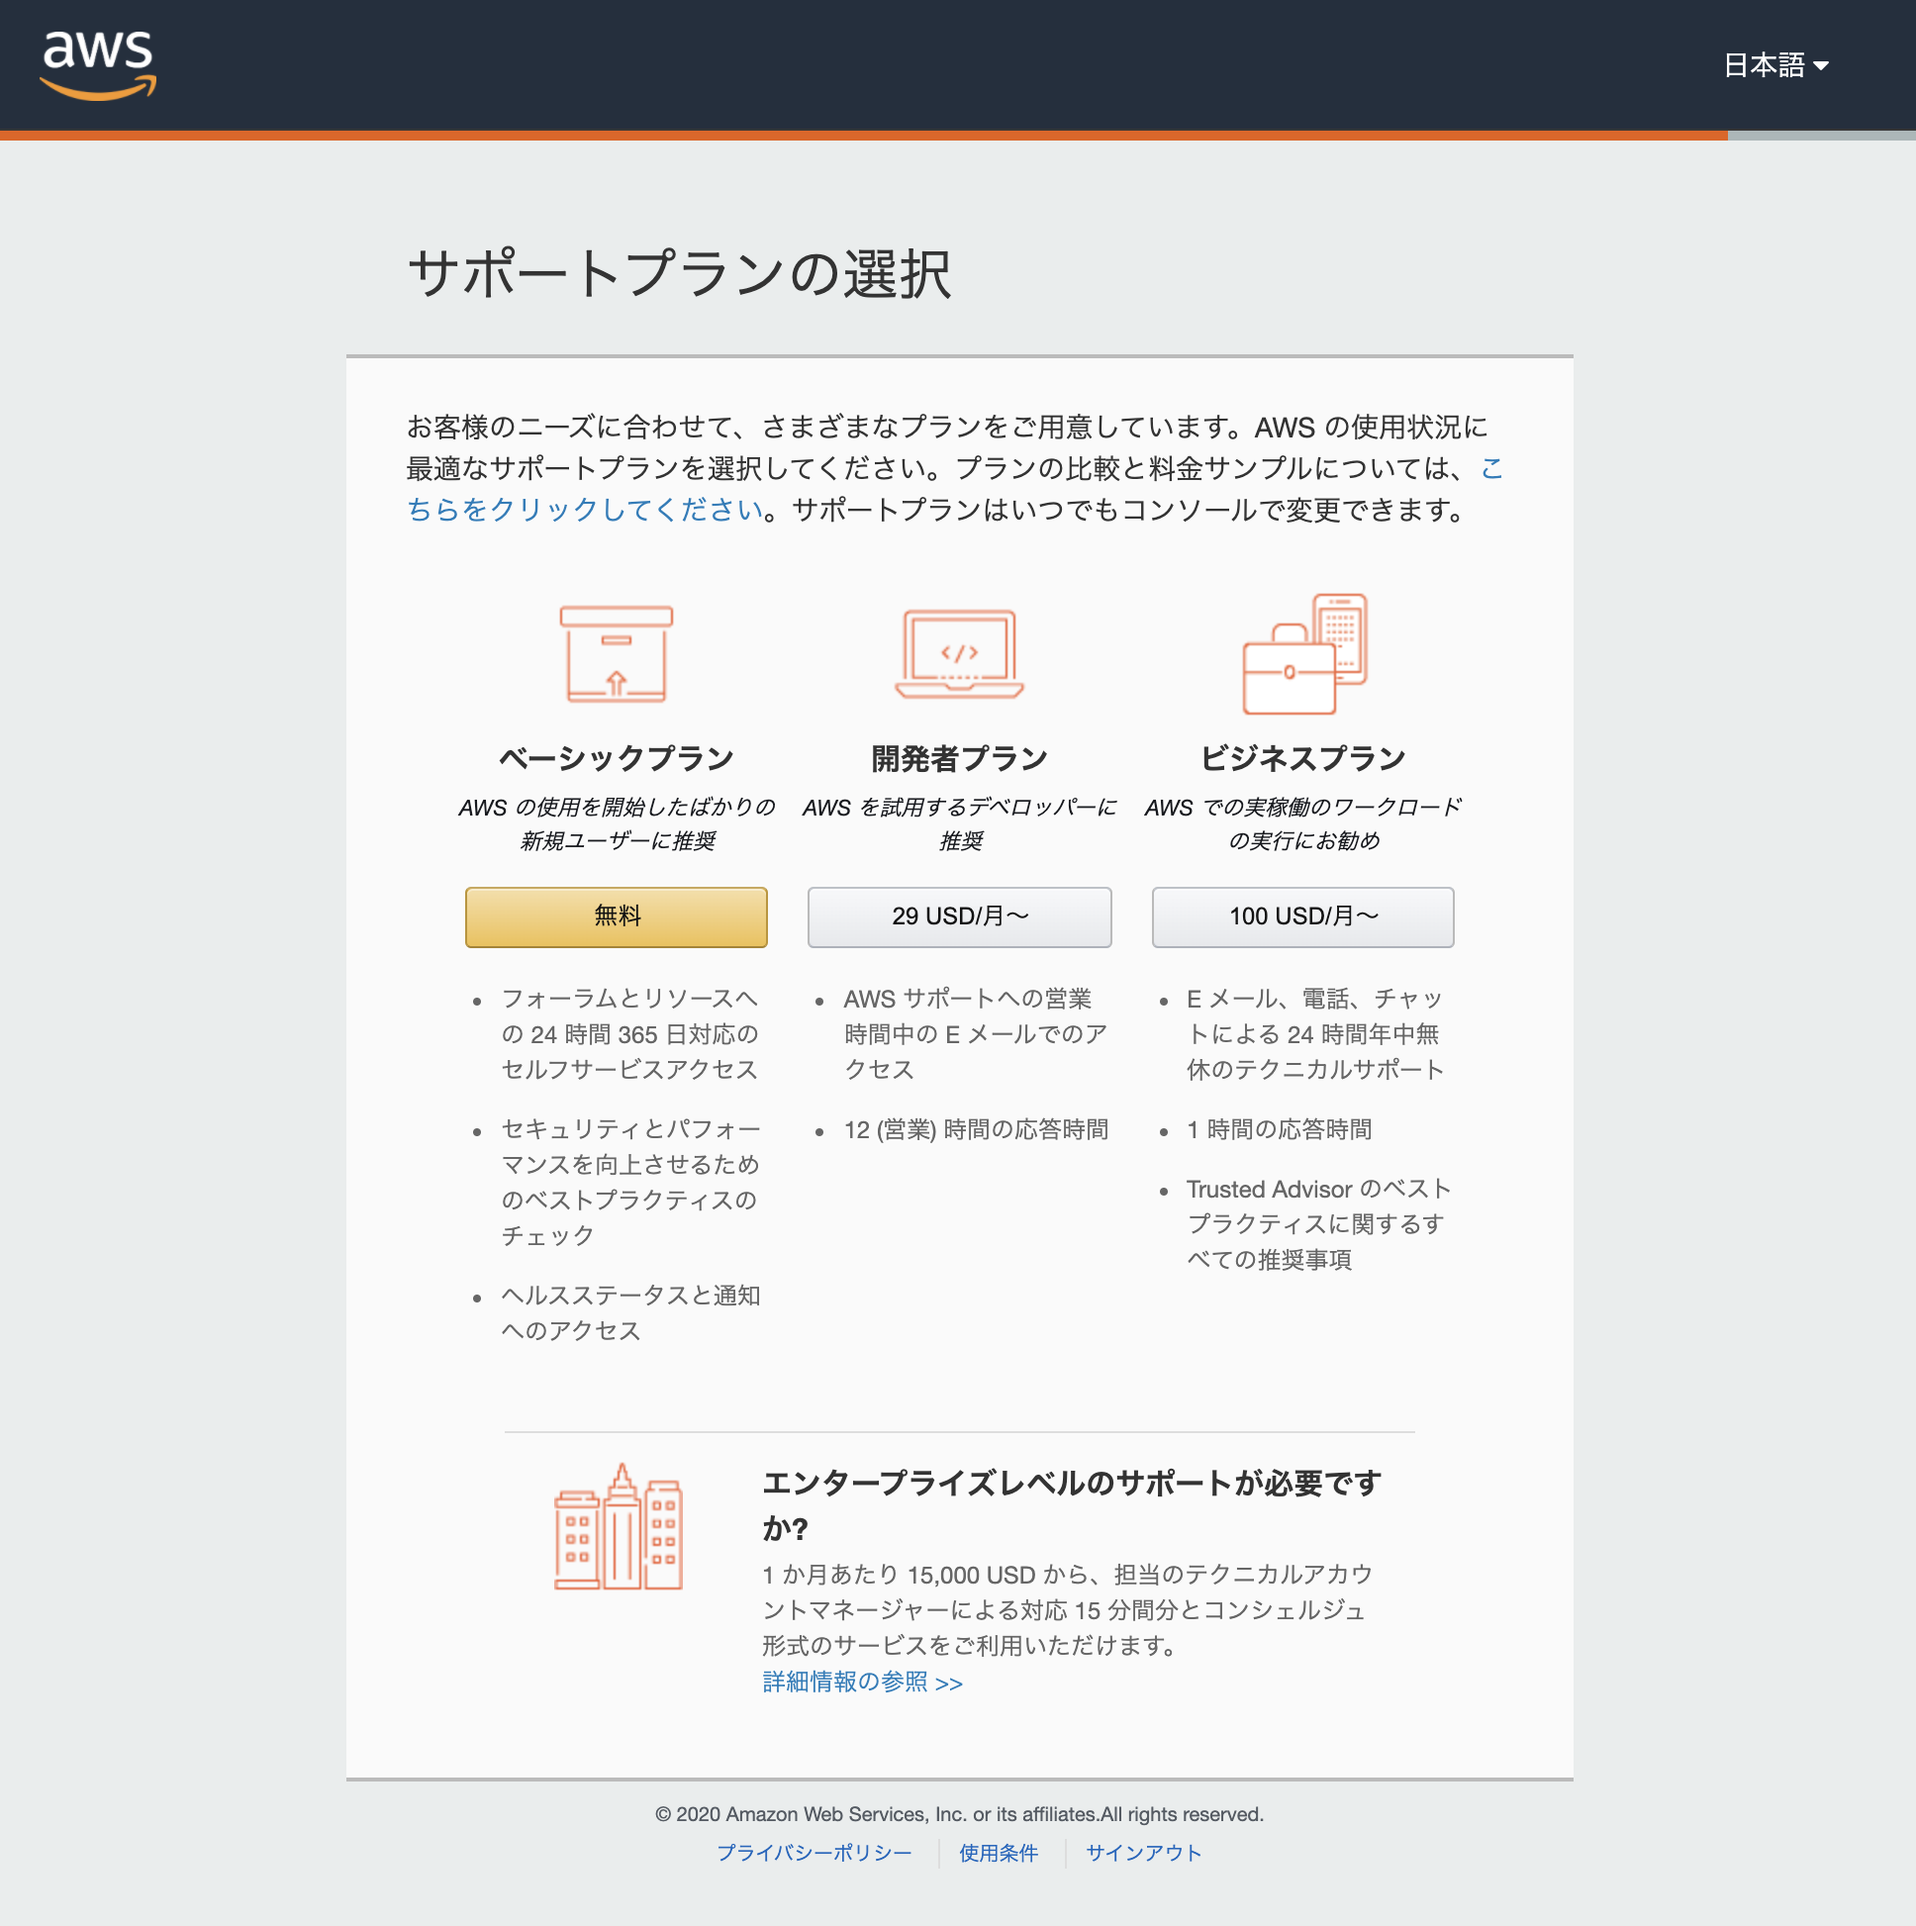
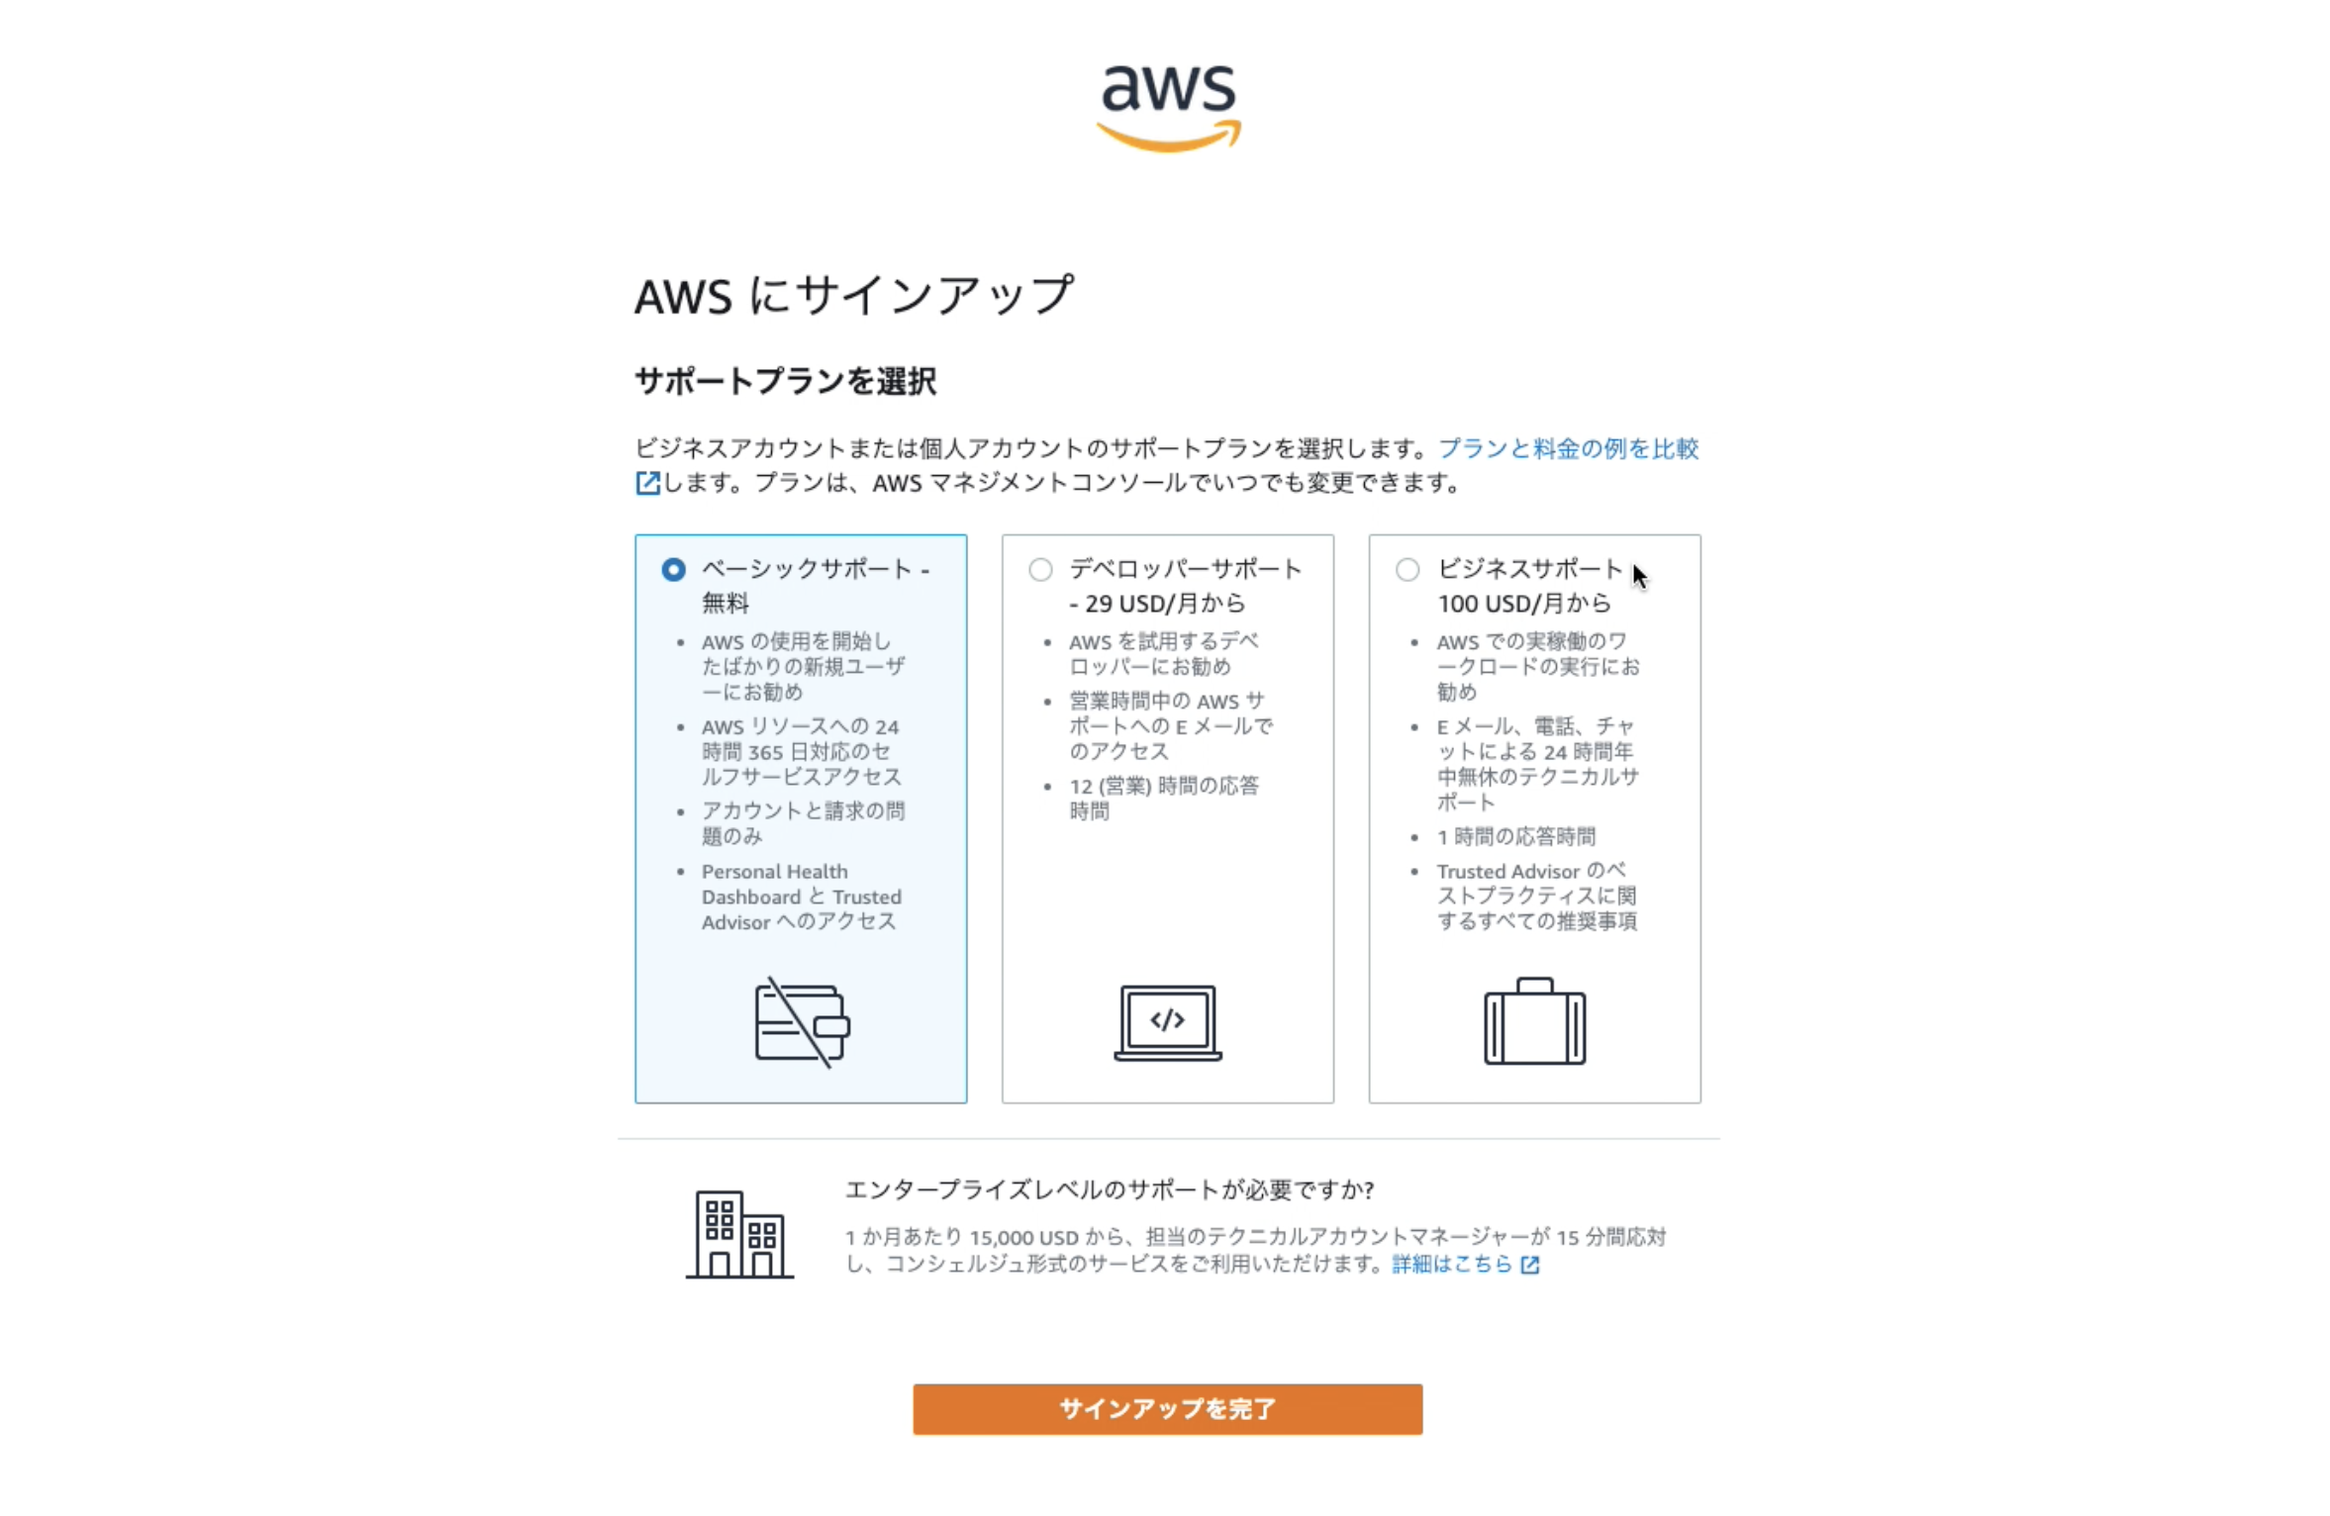
step1,2をアップデート

diff --git a/docs/Step_1.md b/docs/Step_1.md
@@ -46,24 +46,29 @@
   * パスワードの確認
   * AWS アカウント名
 * 連絡先情報
-  * アカウントの種類: パーソナル
+  * AWSはどのように使用されますか？: 個人 - ご自身のプロジェクト向け
   * 電話番号: 個人の電話番号を入力
-  * 国/地域: 任意
-  * アドレス: 任意
-  * 市区町村: 任意
-  * 都道府県または地域: 任意
-  * 郵便番号: 任意
-  * AWSカスタマーアグリーメントの諸条件を...: チェックする
-  * アカウントを作成して続行ボタンをクリック
+  * 住所は各自の情報を入力してください
+    * 例
+      * 国または地域コード: 日本 
+      * 住所: 1-21-1
+        * Shibuya Apartment 101
+      * 市区町村: Shibuya-ku Dogenzaka
+      * 州/都道府県または地域: Tokyo
+      * 郵便番号: 150-0043
+  * AWSカスタマーアグリーメントの...: チェックする
+  * 続行ボタンをクリック
 * 支払い情報
   * クレジットカード情報の入力
+  * 確認して次へボタンをクリック
 * 本人確認
   * SMS か 音声通話を利用して本人確認を実施
 * サポートプランの選択
-  * ベーシックプラン（無料）を選択
+  * ベーシックサポート-無料 を選択
   * <img src="./assets/step1_register_01.png" width="800px">
-* アマゾンウェブサービスへようこそ
-  * コンソールにサインインボタンをクリック
+  * サインアップを完了ボタンを押す
+* おめでとうございます
+  * AWSマネジメントコンソールへ進むボタンを押す
 
 # サインイン
 * https://console.aws.amazon.com/console/home
@@ -76,8 +81,8 @@
 
 # アカウントエイリアスを設定
 * https://console.aws.amazon.com/iam/home?#/home
-* カスタマイズというリンクをクリック
+* 右端の作成リンクをクリック
   * <img src="./assets/step1_account_alias_00.png" width="800px">
-* アカウントの別名を作成というポップアップが出る
-  * アカウントエイリアス: 世界中の AWS アカウントがユニークに特定される必要があることに留意しつつ、任意のエイリアス名を記入
-* はい、作成するボタンをクリック
+* エイリアスを作成というポップアップが出る
+  * アカウント（優先）エイリアス: 世界中の AWS アカウントがユニークに特定される必要があることに留意しつつ、任意のエイリアス名を記入
+* 変更を保存ボタンをクリック

diff --git a/docs/Step_2.md b/docs/Step_2.md
@@ -32,7 +32,7 @@
 # ルートアカウントの MFA を有効化
 * ルートアカウントにログインする際に、2要素認証が必要になるよう設定する
 * https://console.aws.amazon.com/iam/home?region=ap-northeast-1#/home
-* `MFAの管理` ボタンをクリック
+* `MFAを追加` ボタンをクリック
   * <img src="./assets/step2_root_mfa_01.png" width="800px">
 * `MFAの有効化` ボタンをクリック
   * <img src="./assets/step2_root_mfa_02.png" width="800px">
@@ -47,8 +47,12 @@
   * <img src="./assets/step2_root_mfa_05.png" width="800px">
 * `MFA の割り当て`ボタンを押して、設定に成功すれば完了
   * <img src="./assets/step2_root_mfa_06.png" width="800px">
-* 一度 AWS アカウントからログアウトして、再度ログインしてみると、MFA コードの入力を求められるはず
+* `シークレットブラウザ` を別途開き、AWS にログインしてみるとMFA コードの入力を求められるはず
+  * https://console.aws.amazon.com/console/home
+  * MFA 設定がミスしていたら詰むので、まずはシークレットブラウザで試すのをお勧めします
   * <img src="./assets/step2_root_mfa_07.png" width="800px">
+
+* シークレットブラウザで問題なくログインできたら、メインのブラウザで AWS アカウントからログアウトして、再度ログインする
 
 
 # 利用するリージョンを限定しておく
@@ -77,10 +81,6 @@
 * refs. https://aws.amazon.com/jp/blogs/news/how-to-change-aws-ca-by-artifact/
 
 # その他アカウントの設定
-* 下記ページにあるセキュリティーステータスは、本当は全て `Green` になっていることが望ましい
-  * https://console.aws.amazon.com/iam/home?region=us-east-1#/home
-  * <img src="./assets/step2_security_status_01.png" width="800px">
-
 * 良い記事があったので、よければ参考にしてみてください
   * https://qiita.com/tmknom/items/303db2d1d928db720888
   * **CloudTrailの設定をすると`お金がかかるので注意`**
